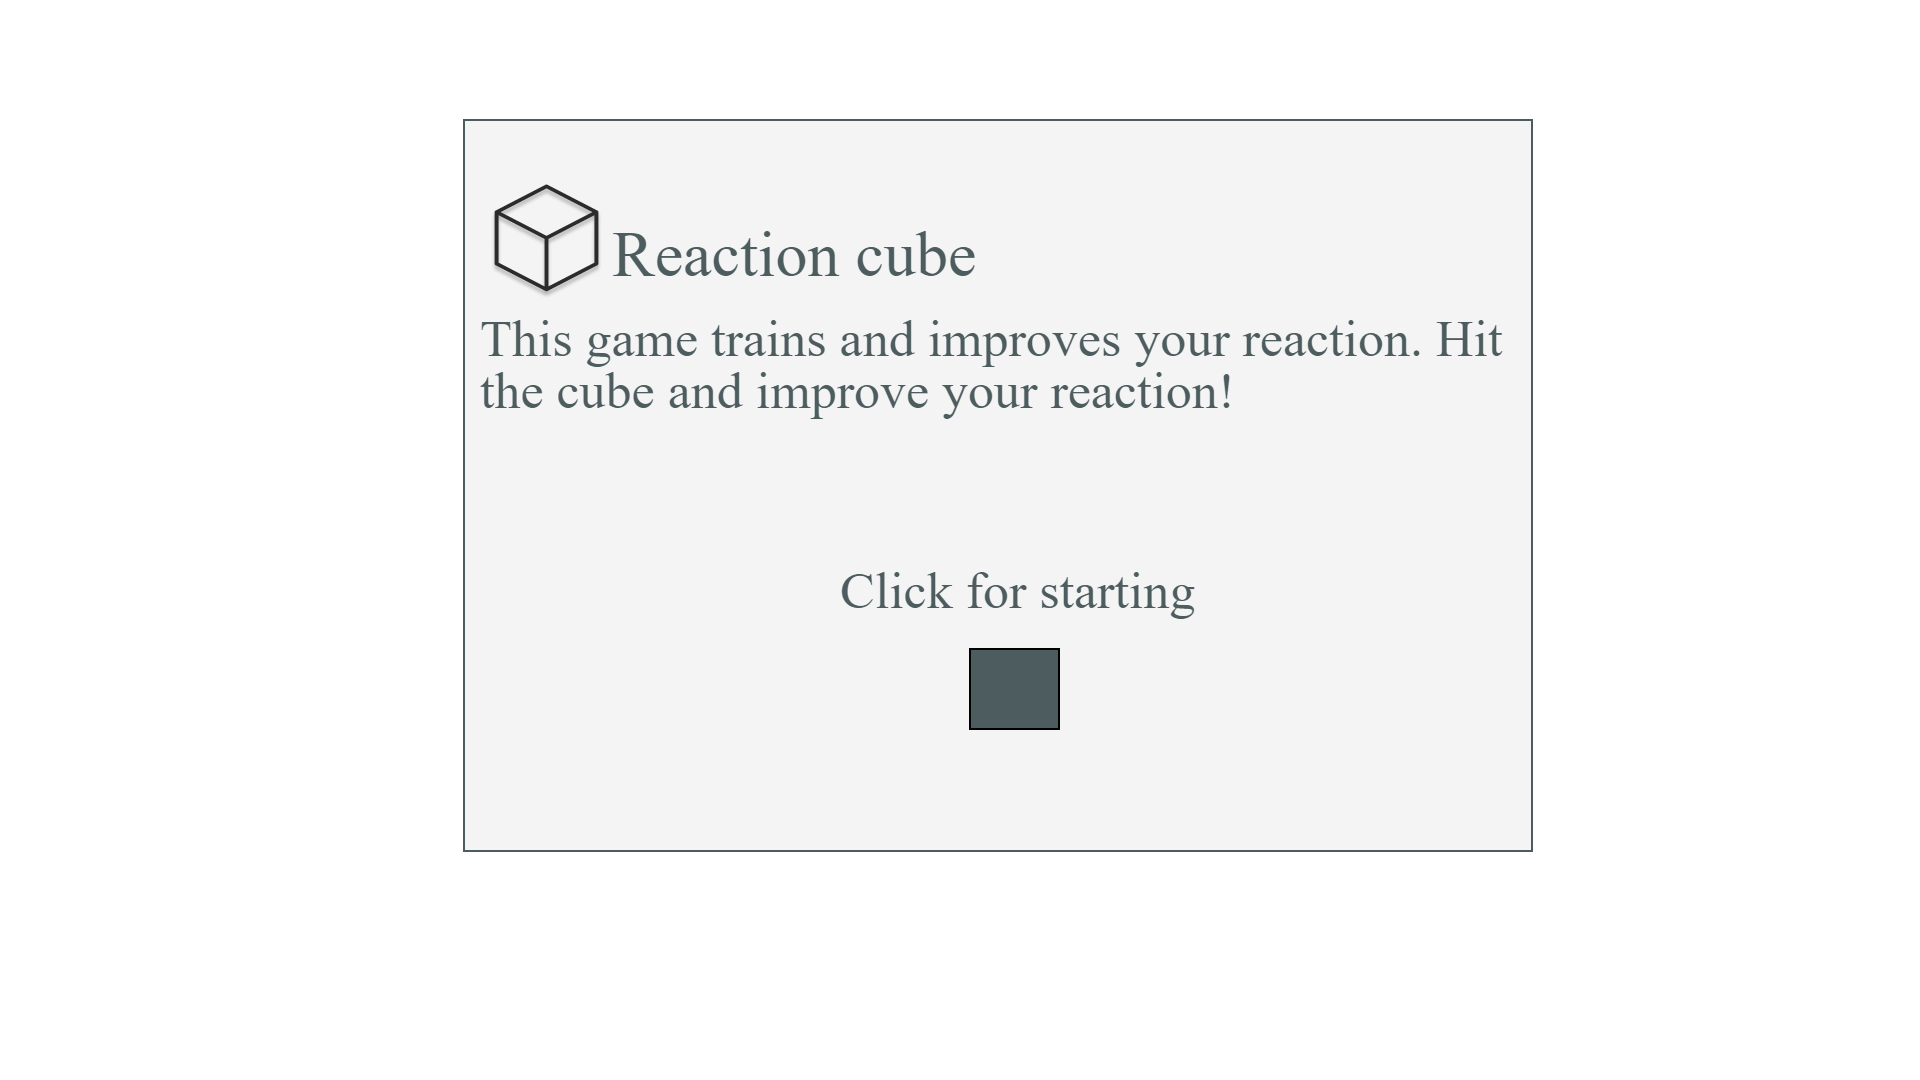
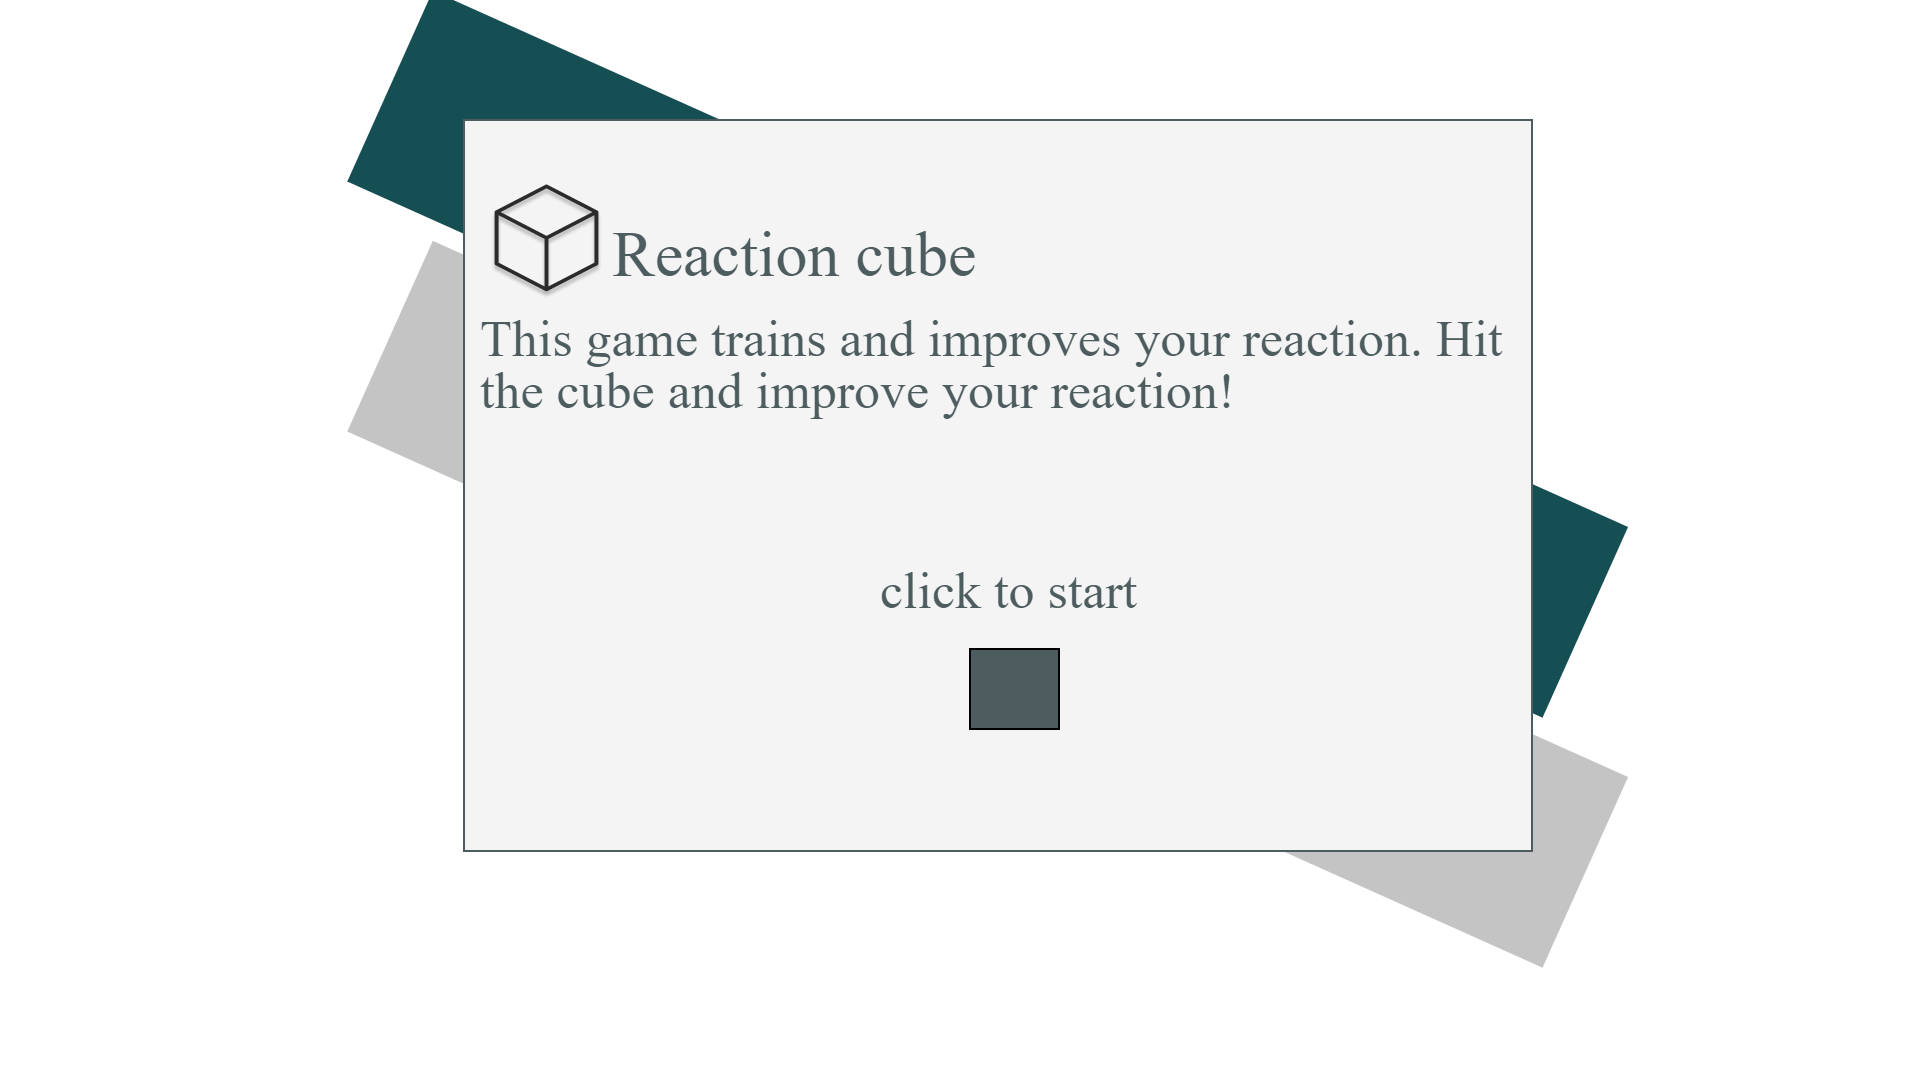
add two pictures and change style2.css

Changed region(s): [[0.1875, 0.0, 0.375, 0.4583], [0.6875, 0.4583, 0.8438, 0.8861], [0.4375, 0.5194, 0.625, 0.5806]]

diff --git a/style/style2.css b/style/style2.css
@@ -28,14 +28,15 @@ background: #FFFFFF;
     top: 60px;
     
     background: #F4F4F4;
-    border: 1px solid #000000;
+    border: 2px solid #000000;
+    z-index: 1;
 }
 
 .name-for-start-button{
     position: absolute;
     width: 364px;
     height: 54px;
-    left: 579px;
+    left: 620px;
     top: 335px;
     
     font-family: "Patric";
@@ -65,15 +66,18 @@ background: #FFFFFF;
     top: 296px;
 
     background-color: #F4F4F4;
-    border: 1px solid #000000;
+    border: 2px solid #000000;
+    z-index: 2;
 }
 
 .points-box{
     top: 500px;
+    z-index: 2;
 }
 
 .result-box {
     top: 704px;
+    z-index: 2;
 }
 
 .time-box-name, .points-box-name, .result-box-name {
@@ -88,14 +92,18 @@ background: #FFFFFF;
     line-height: 76px;
     
     color: #4D5C5E;
+    z-index: 2;
 }
 
 .points-box-name {
     top: 428px;
+    z-index: 2;
 }
+
 
 .result-box-name {
     top: 632px;
+    z-index: 2;
 }
 
 
@@ -112,6 +120,7 @@ background: #FFFFFF;
     line-height: 76px;
 
     color: #4D5C5E;
+    z-index: 2;
 }
 
 .time input {
@@ -126,9 +135,34 @@ background: #FFFFFF;
     height: 53px;
     top: 8px;
     left: -30px;
+    z-index: 2;
 }
 
 .hidden {
     visibility: hidden;
     
+}
+
+.interface-block{
+    position: absolute;
+    width: 209px;
+    height: 2000.37px;
+    left: 850px;
+    top: -505.53px;
+
+    background: #164F53;
+    transform: rotate(114.16deg);
+    z-index: 0;
+}
+
+.interface-block1{
+    position: absolute;
+    width: 209px;
+    height: 1810.37px;
+    left: 750px;
+    top: -250.53px;
+    
+    background: #C4C4C4;
+    transform: rotate(114.16deg);
+    z-index: 0;
 }

diff --git a/style/style.css b/style/style.css
@@ -74,7 +74,7 @@ body {
     position: absolute;
     width: 369px;
     height: 54px;
-    left: 840px;
+    left: 880px;
     top: 565px;
 
     font-family: "Patric";
@@ -95,4 +95,26 @@ body {
     background: #4D5C5E;
     border: 2px solid #000000;
     z-index: 2;
+}
+
+.interface-block{
+    position: absolute;
+    width: 209px;
+    height: 1310.37px;
+    left: 883px;
+    top: -300.53px;
+
+    background: #164F53;
+    transform: rotate(114.16deg);
+}
+
+.interface-block1{
+    position: absolute;
+    width: 209px;
+    height: 1310.37px;
+    left: 883px;
+    top: -50.53px;
+    
+    background: #C4C4C4;
+    transform: rotate(114.16deg);
 }

diff --git a/html/index.html b/html/index.html
@@ -14,9 +14,11 @@
     <div class="cube"><img src="../img/cube.png" alt="Reaction cube"></div>
     <div class="cube-name"><p>Reaction cube</p></div>
     <div class="cube-description"><p>This game trains and improves your reaction. Hit the cube and improve your reaction!</p></div>
-    <div class="start-cube-name"><p>Click for starting</p></div>
+    <div class="start-cube-name"><p>click to start</p></div>
     <a href="index2.html"><div class="cube-for-start"></div></a>
     <div class="welcome-page"></div>
+    <div class="interface-block"></div>
+    <div class="interface-block1"></div>
     </div>
 
 </body>

diff --git a/html/index2.html b/html/index2.html
@@ -28,10 +28,14 @@
     </div>
     
     <div class="game-page">
-    <div class="name-for-start-button">Click for starting</div>
+    <div class="name-for-start-button">click to start</div>
     <div class="game-page-for-cube"></div>
     <div class="start-cube"></div>
     </div>
+
+    <div class="interface-block"></div>
+    <div class="interface-block1"></div>
+
     </div>
 
 <script src="../script/script.js"></script>

diff --git a/README.md b/README.md
@@ -1,5 +1,5 @@
 
 # Reaction cube
-### This game trains and improves your reaction. Hit the cube and improve your reaction
+### This game trains and improves your reaction. Hit the cube and improve your reaction. The color of the cube will change depending on the number of points
 ![Alt Text](pictures/1.png)
 ![Alt Text](pictures/2.png)
